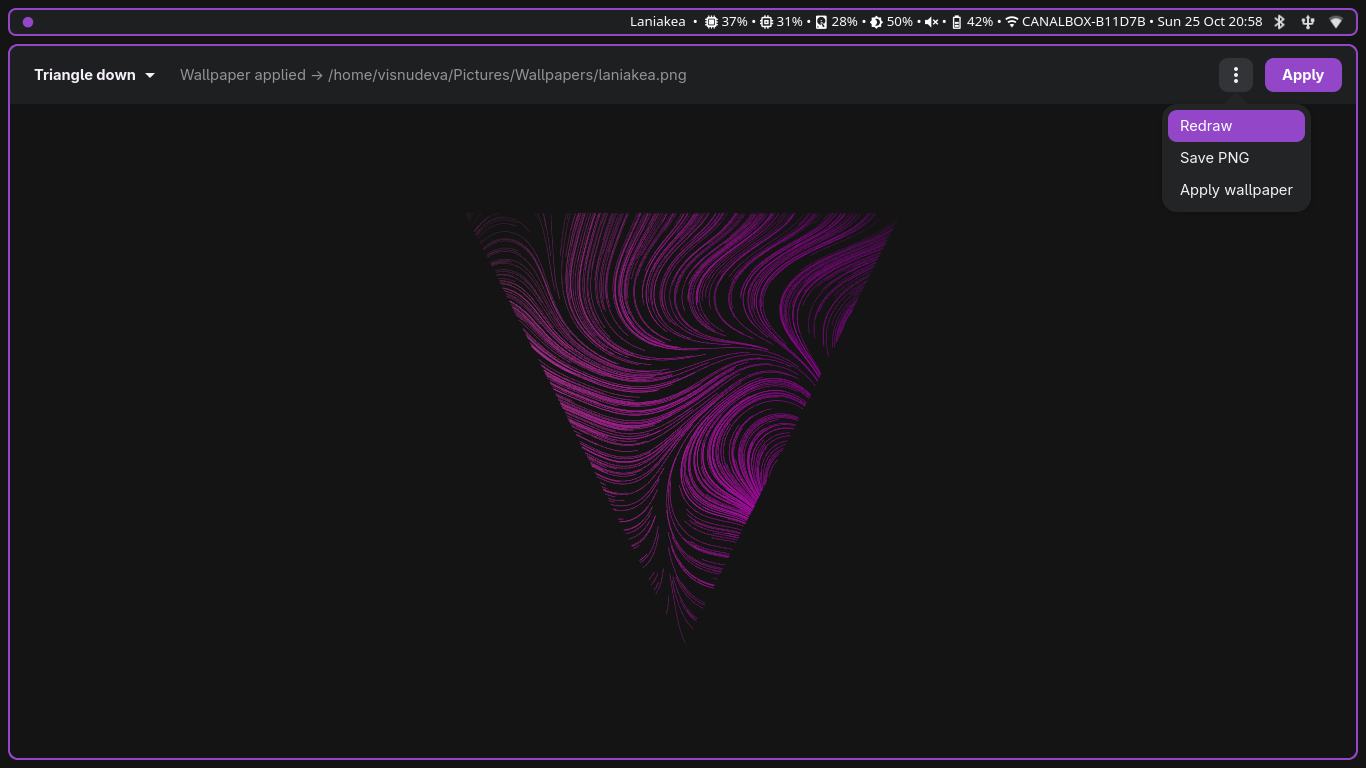
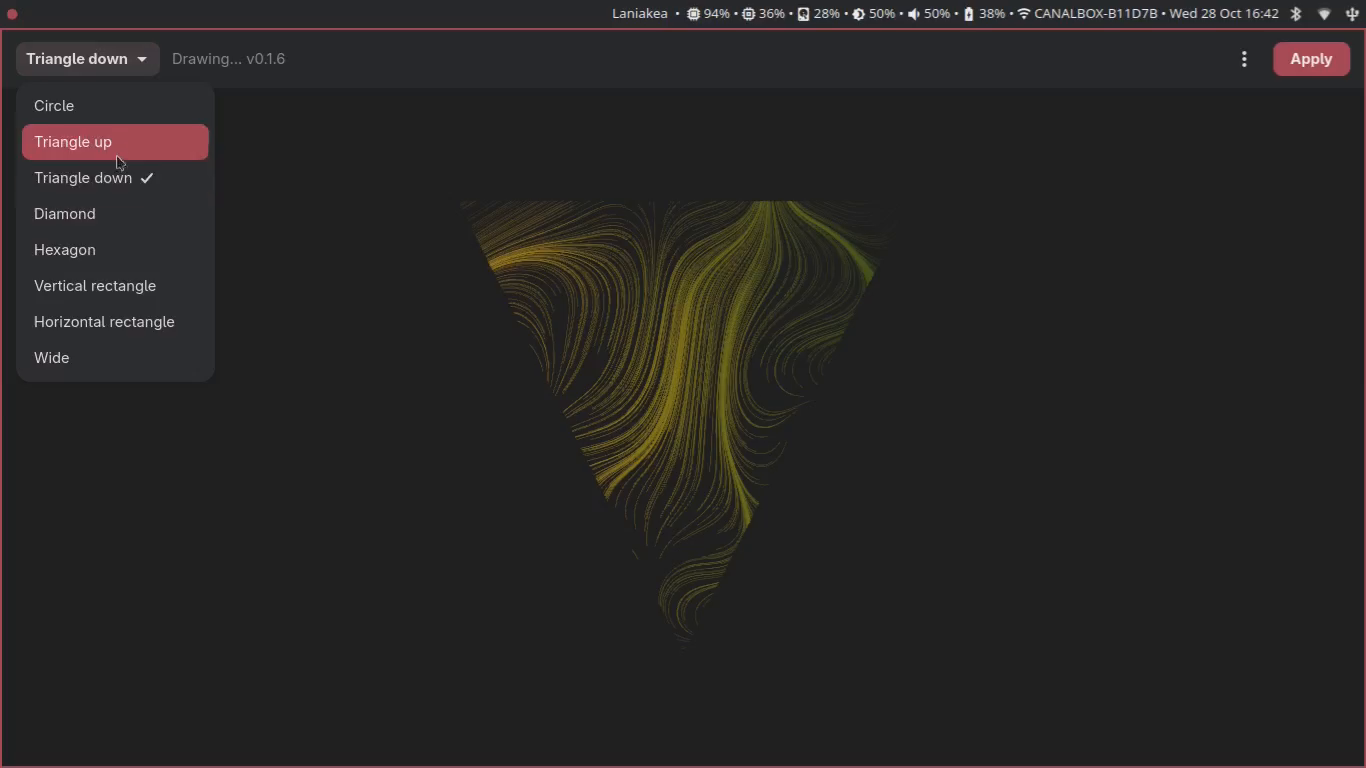
Refresh showroom screenshots from the Fourth Harvest screencast.
Rename the Kawai wallpaper label to Kawaii.

Changed region(s): [[0.0, 0.0, 1.0, 1.0], [0.3382, 0.25, 0.6457, 0.8125]]

diff --git a/sourceforge/htdocs/showroom.html b/sourceforge/htdocs/showroom.html
@@ -64,9 +64,27 @@
     <div class="shot-row" data-lightbox-gallery>
       <figure>
         <a href="showroom/shot-overview.png">
-          <img src="showroom/shot-overview.png" alt="SweetPotatOs desktop with fastfetch, files, and the Ube theme">
+          <img src="showroom/shot-overview.png" alt="SweetPotatOs Fourth Harvest fastfetch in the terminal">
         </a>
-        <figcaption>Desktop overview</figcaption>
+        <figcaption>Fourth Harvest</figcaption>
+      </figure>
+      <figure>
+        <a href="showroom/shot-desktop.png">
+          <img src="showroom/shot-desktop.png" alt="Spore radio and Laniakea with corners and gaps on">
+        </a>
+        <figcaption>Desktop with gaps</figcaption>
+      </figure>
+      <figure>
+        <a href="showroom/shot-spore.png">
+          <img src="showroom/shot-spore.png" alt="Spore web radio with BarsDot visualizer">
+        </a>
+        <figcaption>Spore radio</figcaption>
+      </figure>
+      <figure>
+        <a href="showroom/shot-laniakea.png">
+          <img src="showroom/shot-laniakea.png" alt="Laniakea generative wallpaper app shape picker">
+        </a>
+        <figcaption>Laniakea</figcaption>
       </figure>
       <figure>
         <a href="showroom/shot-keybinds.png">
@@ -76,15 +94,9 @@
       </figure>
       <figure>
         <a href="showroom/shot-files.png">
-          <img src="showroom/shot-files.png" alt="Thunar and a terminal side by side">
+          <img src="showroom/shot-files.png" alt="fish terminal and Thunar side by side">
         </a>
         <figcaption>Files and terminal</figcaption>
-      </figure>
-      <figure>
-        <a href="showroom/shot-laniakea.png">
-          <img src="showroom/shot-laniakea.png" alt="Laniakea generative flow-field wallpaper app">
-        </a>
-        <figcaption>Laniakea</figcaption>
       </figure>
     </div>
 
@@ -147,8 +159,8 @@
           <figcaption>Base</figcaption>
         </figure>
         <figure>
-          <a href="wallpapers/NewSPOKawaiBG.png"><img src="showroom/NewSPOKawaiBG.jpg" alt="Kawai wallpaper"></a>
-          <figcaption>Kawai</figcaption>
+          <a href="wallpapers/NewSPOKawaiBG.png"><img src="showroom/NewSPOKawaiBG.jpg" alt="Kawaii wallpaper"></a>
+          <figcaption>Kawaii</figcaption>
         </figure>
         <figure>
           <a href="wallpapers/NewSPOLightBG.png"><img src="showroom/NewSPOLightBG.jpg" alt="Light wallpaper"></a>
